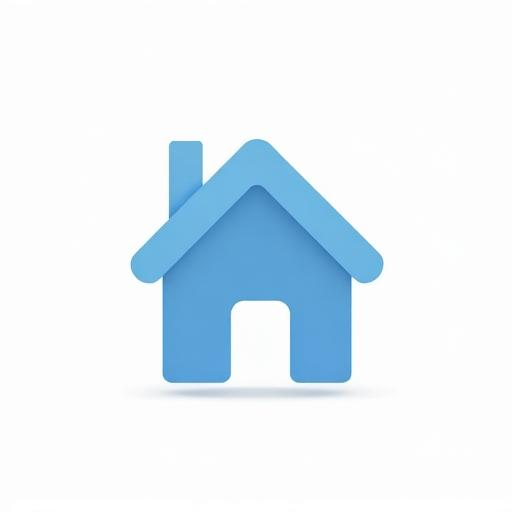
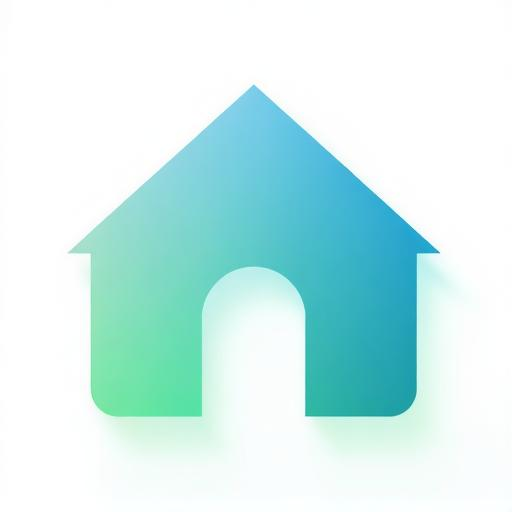
Changes

diff --git a/src/components/Header.tsx b/src/components/Header.tsx
@@ -2,6 +2,7 @@ import { useState } from "react";
 import { Link, useLocation } from "react-router-dom";
 import { Home, Heart, User, Menu, X, LogOut, Plus, Archive, BarChart3, UserCircle } from "lucide-react";
 import { Button } from "@/components/ui/button";
+import bluehomeLogo from "@/assets/bluehome-logo.png";
 import {
   DropdownMenu,
   DropdownMenuContent,
@@ -75,7 +76,7 @@ const Header = () => {
             
             {/* Logo */}
             <Link to="/" className="flex items-center gap-1 sm:gap-2 hover:opacity-80 transition-opacity">
-              <Home className="w-6 h-6 sm:w-8 sm:h-8 md:w-10 md:h-10 text-primary" />
+              <img src={bluehomeLogo} alt="Bluehome" className="w-8 h-8 sm:w-10 sm:h-10 md:w-12 md:h-12 object-contain" />
               <span className="text-xl sm:text-2xl md:text-3xl lg:text-4xl font-bold bg-hero-gradient bg-clip-text text-transparent">
                 Bluehome
               </span>

diff --git a/index.html b/index.html
@@ -2,6 +2,7 @@
 <html lang="en">
   <head>
     <meta charset="UTF-8" />
+    <link rel="icon" href="/favicon.png" type="image/png" />
     <meta name="viewport" content="width=device-width, initial-scale=1.0, user-scalable=no" />
     <meta name="theme-color" content="#3B82F6" />
     <meta name="mobile-web-app-capable" content="yes" />
